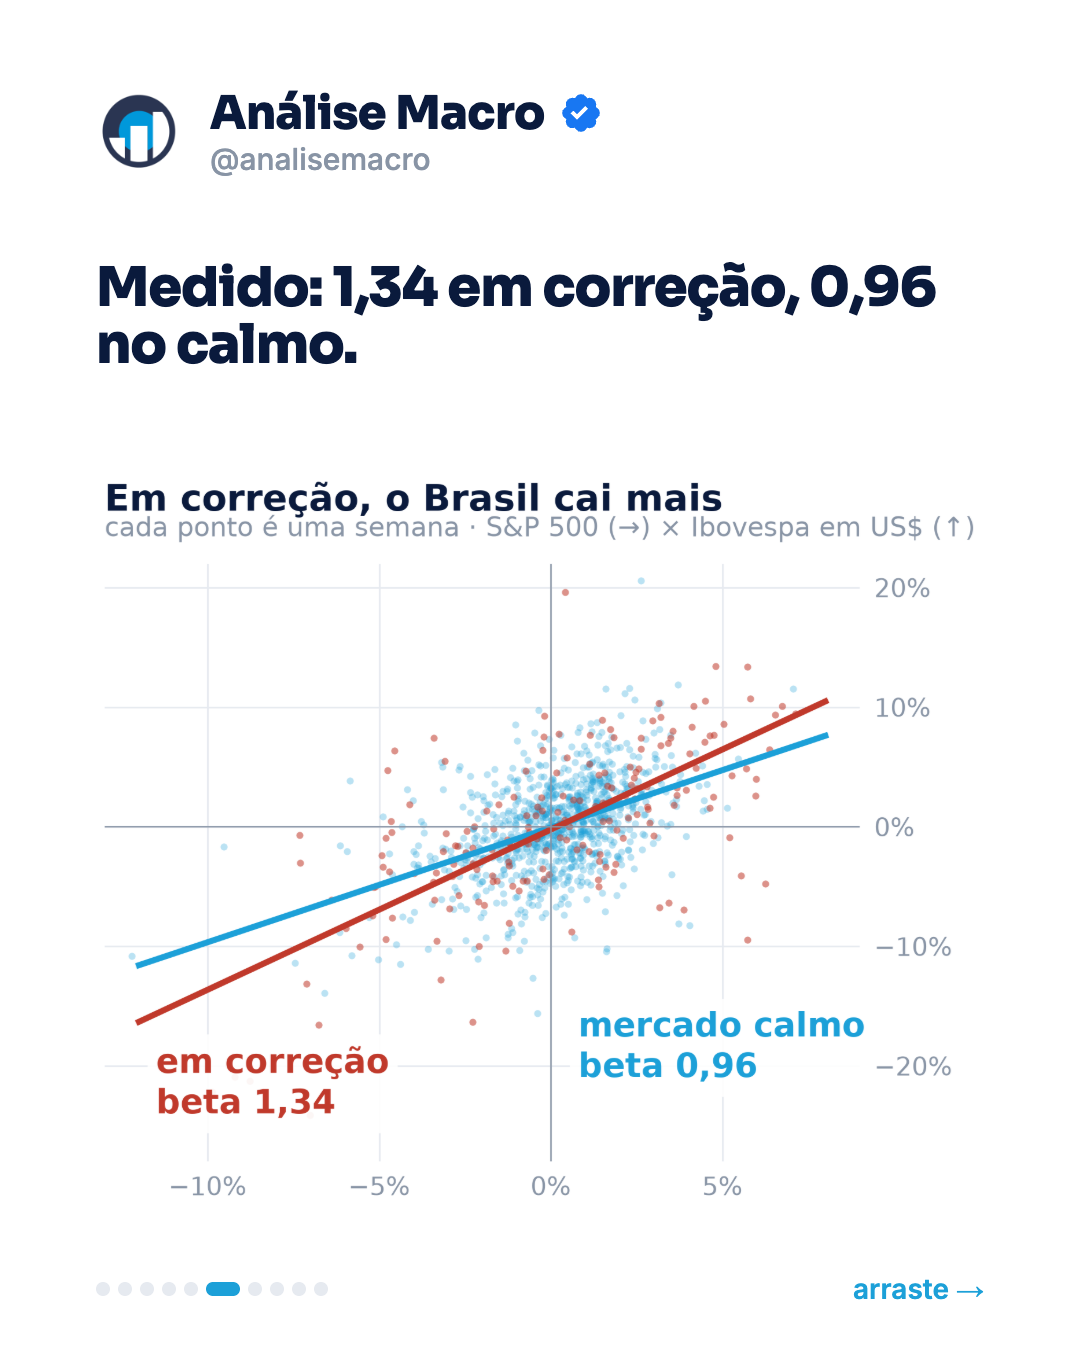
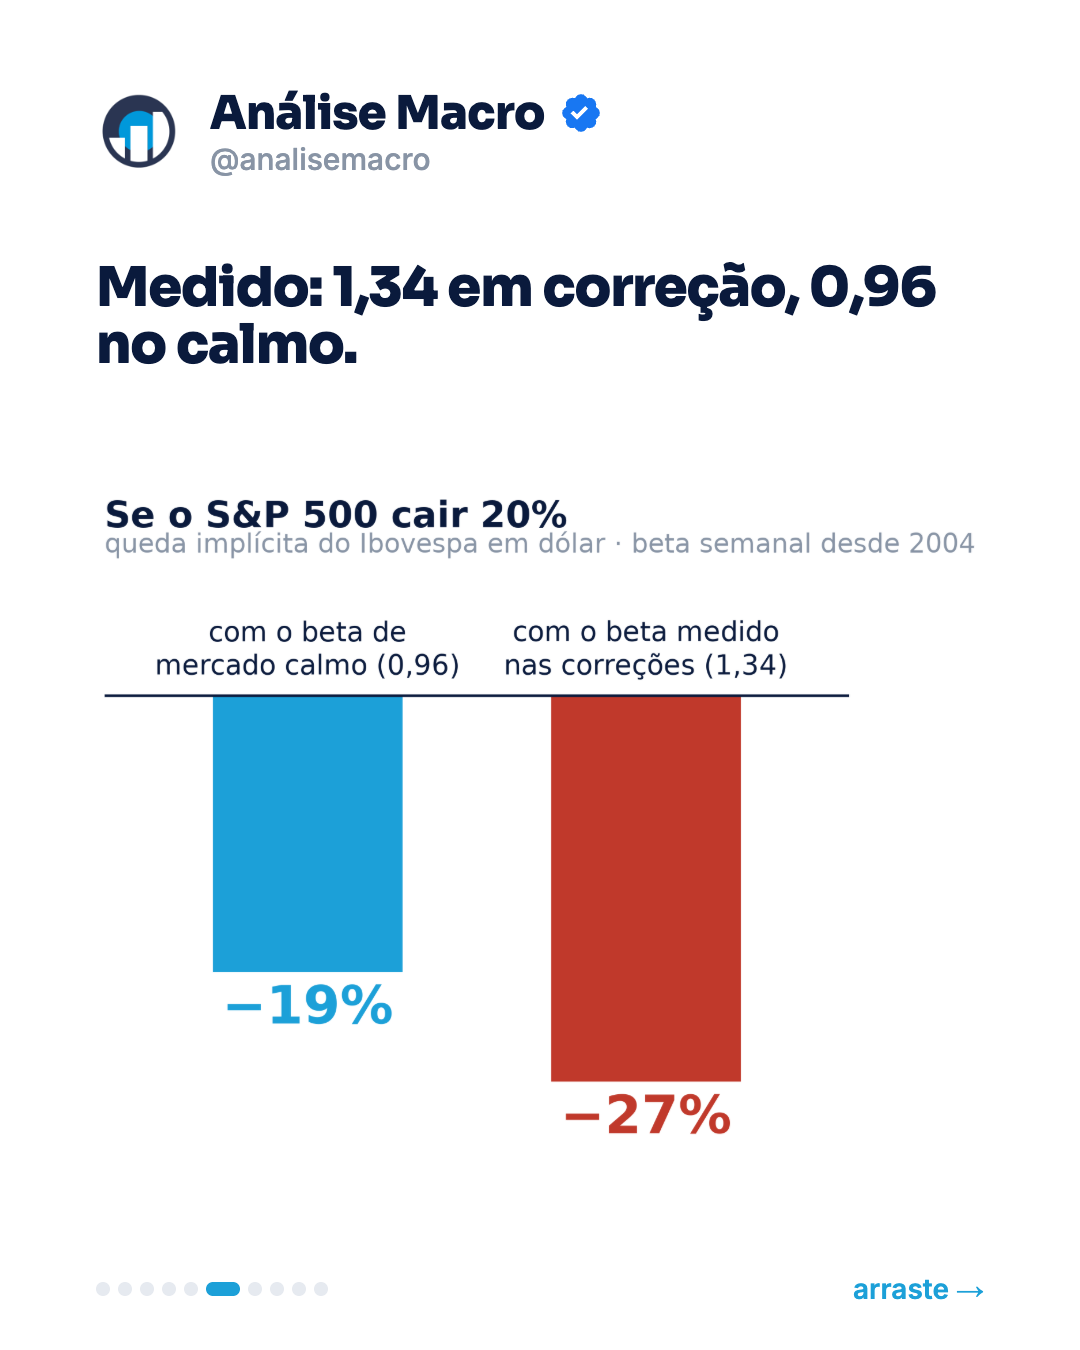
carrossel de 29/09: dispersão na capa (pedido do Vitor, 02/10)

diff --git a/divulgacao/carrossel.py b/divulgacao/carrossel.py
@@ -326,9 +326,9 @@ def slides(d: dict) -> list[dict]:
     Edição de 29/09: só GMO e Bridgewater publicaram, e o exercício mede quanto do
     "vento contrário de 20 pontos" que a GMO projeta para o S&P 500 chega ao
     Brasil — o beta do Ibovespa em dólar ao S&P 500, separado por regime. A regra
-    continua a mesma: **nenhum gráfico aparece antes do contexto**. A capa mostra
-    só duas barras (a pergunta respondida); a dispersão e o drawdown entram
-    depois do slide que define beta e regime.
+    era "nenhum gráfico antes do contexto", com as barras na capa; em 02/10 o Vitor
+    pediu a dispersão na capa — ela tem título e legenda e se explica sozinha. As
+    barras passaram ao slide 6, que traz os betas medidos.
 
     Bullets, não parágrafos. Sem preço, sem oferta e sem emoji.
     """
@@ -338,7 +338,8 @@ def slides(d: dict) -> list[dict]:
         {
             "kind": "capa",
             "hook": "A GMO vê 20 pontos de vento contra o S&P 500. *Quanto disso chega ao Brasil?*",
-            "src": grafico_choque(d),
+            # A dispersão na capa foi pedido do Vitor (02/10): a prova abre o post.
+            "src": grafico_dispersao(d),
         },
         {
             "kind": "lista",
@@ -386,7 +387,7 @@ def slides(d: dict) -> list[dict]:
             "kind": "capa",
             "hook": f"Medido: *{_num(r['b_corr'])}* em correção, {_num(r['b_calmo'])} no calmo.",
             "hint": False,
-            "src": grafico_dispersao(d),
+            "src": grafico_choque(d),   # as barras traduzem os dois betas em queda
         },
         {
             "kind": "capa",

diff --git a/divulgacao/carrossel-instagram.md b/divulgacao/carrossel-instagram.md
@@ -29,12 +29,12 @@ na sequência (a tese, com ✓), sem inventar consenso.
 
 | # | Tipo | Conteúdo |
 |---|---|---|
-| 1 | capa + gráfico | "A GMO vê 20 pontos de vento contra o S&P 500. Quanto disso chega ao Brasil?" — duas barras: −19% (beta calmo) e −27% (beta de correção) |
+| 1 | capa + gráfico | "A GMO vê 20 pontos de vento contra o S&P 500. Quanto disso chega ao Brasil?" — dispersão semanal desde 2004, por regime (1,34 × 0,96). Na capa a pedido do Vitor, 02/10 |
 | 2 | lista ✓ | O que a GMO argumenta: oferta de ações como gatilho, ~20 pontos em 12-18 meses |
 | 3 | lista | Onde isso pesa: venda do que é líquido; bolsa e real como fonte de caixa |
 | 4 | definição | Beta / Correção / Beta por regime — **antes** dos gráficos de série |
 | 5 | lista | Por que custa dinheiro |
-| 6 | capa + gráfico | Dispersão semanal desde 2004, por regime, com a reta de cada um (1,34 × 0,96) |
+| 6 | capa + gráfico | "Medido: 1,34 em correção, 0,96 no calmo." — duas barras: −19% (beta calmo) e −27% (beta de correção) |
 | 7 | capa + gráfico | Distância do S&P 500 até a máxima, linha dos −10% e o ponto de hoje (−0,9%) |
 | 8 | lista | O que o dado diz — inclui "hoje o regime é calmo" e "âncora, não previsão" |
 | 9 | lista numerada | O caminho que eu fiz |
@@ -68,7 +68,7 @@ na sequência (a tese, com ✓), sem inventar consenso.
 > abril de 2025, o S&P 500 caiu 9% e o Ibovespa em dólar, menos de 2%. O beta por
 > regime é âncora histórica, não previsão.
 >
-> Você não precisa acreditar em mim nem na GMO. Os slides 6 e 7 saíram de um código
+> Você não precisa acreditar em mim nem na GMO. Os gráficos saíram de um código
 > em Python com dado público, que roda em segundos.
 >
 > É o que faço toda semana em que sai carta nova: leio as cartas de 15 gestoras
